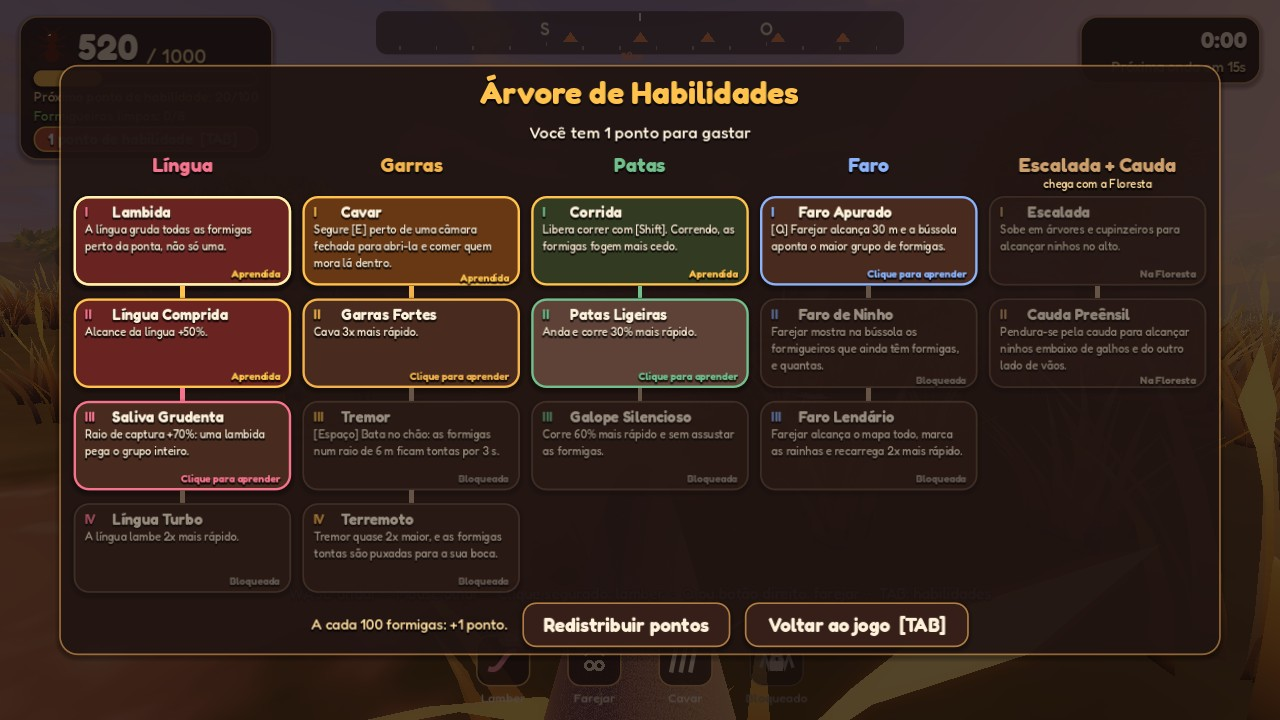
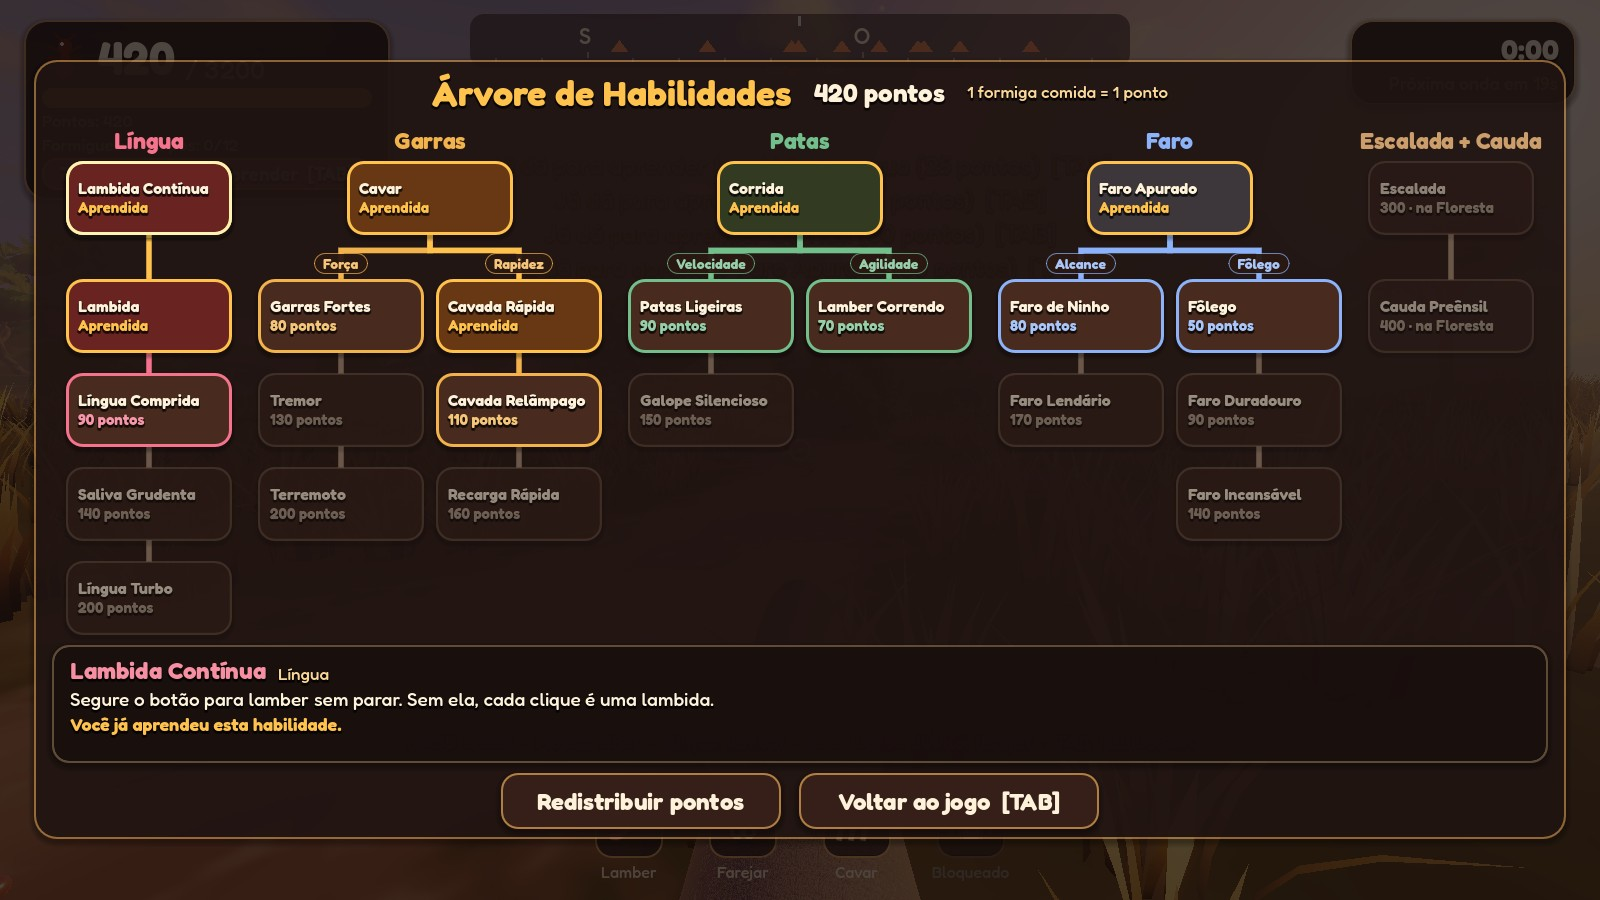
Document the playtest changes and refresh screenshots
DESIGN.md records the new decisions (eye height, walkable mounds, skill
prices and lines, running rules, 3200 ants on 12 mounds, display
options) in the current sections and in the decision history. The
README describes the new skills, controls and settings; the model docs
use the new mound count and size. Screenshots show the new HUD, a big
mound seen from the top and the new skill tree.

Claude-Session: https://claude.ai/code/session_01PK3zBhGKGNdhTPcPbN78xy

diff --git a/docs/DESIGN.md b/docs/DESIGN.md
@@ -7,7 +7,8 @@ Este documento junta, em um lugar só, tudo o que já foi definido sobre o jogo:
 - o **protótipo 2D do loop** (pasta [`prototipos/m1-loop/`](../prototipos/m1-loop/));
 - a **demo 3D** (o projeto principal deste repositório) e as escolhas feitas na
   conversa em que ela foi criada;
-- as **decisões de 02/11/2026**, tomadas para resolver o que não batia.
+- as **decisões de 02/11/2026**, tomadas para resolver o que não batia;
+- as **mudanças pedidas depois do primeiro teste** da demo (também de 02/11/2026).
 
 Quando algo aqui contradiz uma fonte antiga, **vale este documento**.
 
@@ -44,7 +45,7 @@ buscamos, no espírito delas:
 | **Documento de design** | As regras e ideias do jogo inteiro | Seção 6 deste documento | Consolidado aqui |
 | **Plano de produção** | Etapas de M1 a M5, riscos e cortes sugeridos | [`docs/PLANO.md`](PLANO.md) (resumo na seção 7) | Escrito |
 | **Protótipo M1 (2D)** | Testa só a sensação de comer: 1 ninho com 6 câmaras, 259 insetos e a rainha. Gráfico simples de propósito | Pasta [`prototipos/m1-loop/`](../prototipos/m1-loop/), um projeto Godot à parte (detalhes na seção 8) | Jogável |
-| **Demo 3D** | O Cerrado ao entardecer, em 1ª pessoa: 1000 formigas, 8 formigueiros com câmaras e rainhas, 5 habilidades e jogo salvo | Projeto principal, na raiz do repositório (detalhes na seção 8) | Jogável, já seguindo as decisões (seção 4) |
+| **Demo 3D** | O Cerrado ao entardecer, em 1ª pessoa: 3200 formigas, 12 formigueiros com câmaras e rainhas, 5 habilidades (22 níveis) e jogo salvo | Projeto principal, na raiz do repositório (detalhes na seção 8) | Jogável, já seguindo as decisões (seção 4) |
 
 ---
 
@@ -58,8 +59,12 @@ buscamos, no espírito delas:
 - **3D estilizado**, com cara de filme de animação. Nada de pixel art, nada de
   low poly.
 - **1ª pessoa:** você vê o mundo pelos olhos do tamanduá, com o focinho na parte
-  de baixo da tela. *Atenção (do plano): câmera livre deixa a criação das fases
-  mais cara do que câmera fixa.*
+  de baixo da tela. Os olhos ficam a **72 cm do chão**, e dá para **subir nos
+  formigueiros** para olhar dentro das câmaras. Correndo, a câmera balança de
+  leve (dá para desligar). *Atenção (do plano): câmera livre deixa a criação das
+  fases mais cara do que câmera fixa.*
+- **Tela:** janela, tela cheia ou tela cheia exclusiva, em várias resoluções, e
+  opções gráficas separadas (sombras, capim, suavização, efeitos de luz).
 - **Modelos 3D gerados por IA**, todos no mesmo estilo. Os prompts estão em
   [`prompts-ia.md`](prompts-ia.md). O formigueiro já foi gerado na Artlist e
   falta baixar (precisa de um plano com créditos).
@@ -70,13 +75,13 @@ buscamos, no espírito delas:
 - **Um mapa só, com várias regiões.** Você anda de uma região para a outra sem
   telas de carregamento. Por enquanto, só o Cerrado está pronto.
 - O cerrado é a savana brasileira (a "Savana" do documento original).
-- O Cerrado é uma **região completa de 45 a 60 minutos**, com **8 ninhos**.
+- O Cerrado é uma **região completa de 45 a 60 minutos**, com **12 ninhos**:
+  8 em volta do mapa e 4 no meio. Os formigueiros ficaram cerca de 45% maiores.
 - **Os ninhos do Cerrado são só formigueiros.** Os cupinzeiros aparecem apenas
   como cenário.
-- **1000 formigas por enquanto.** Na demo de hoje, elas acabam em 6 a 10
-  minutos. Para chegar aos 45 a 60 minutos, o tempo a mais deve vir de cavar e
-  esvaziar os ninhos, achar as últimas formigas com o Faro e explorar, e não de
-  colocar mais formigas. Se não bastar, o número muda nos testes.
+- **3200 formigas** (eram 1000). Somando o preço de todas as habilidades do
+  Cerrado dá **2180 pontos**: dá para aprender tudo e ainda sobram cerca de
+  **1000 formigas** (uns 4 formigueiros) para jogar com tudo liberado.
 - **Depois do Cerrado:** **outra floresta, com lagoas, cupinzeiros e mais**.
   As lagoas são só cenário por enquanto (nada de nadar). O Quintal urbano fica
   para mais tarde.
@@ -88,8 +93,9 @@ buscamos, no espírito delas:
 - **Ninhos com câmaras:** cada ninho tem câmaras internas. Você cava com as
   Garras e esvazia uma por uma, com a satisfação de terminar de arrumar uma
   prateleira.
-- A **língua** começa comendo um inseto por vez e evolui até a **lambida**, que
-  pega vários.
+- A **língua** começa com **um clique por lambida**, e cada lambida pega um
+  inseto. A primeira habilidade (**Lambida Contínua**, 25 pontos) deixa segurar
+  o botão; depois a **Lambida** pega vários de uma vez.
 - **O fim:** a região está limpa quando não sobra nenhum inseto, nem nas trilhas
   nem dentro dos ninhos.
 
@@ -105,17 +111,27 @@ buscamos, no espírito delas:
 
 ### Habilidades: as 5 do plano
 
-Cada habilidade tem **níveis**, comprados com **pontos** que você ganha comendo
-(na demo, 1 ponto a cada 100 formigas). Você escolhe onde gastar, e os gestos
-novos (lambida, cavar, escalar) também são comprados assim.
+**Cada formiga comida vale 1 ponto** (a rainha vale 20), e **cada habilidade tem
+o seu preço**. Você escolhe onde gastar, e os gestos novos (segurar para lamber,
+lambida, cavar, escalar) também são comprados assim. Dá para redistribuir os
+pontos de graça.
 
-| Habilidade | Para que serve | Ideias de níveis (vindas da demo e do documento) |
+**Garras**, **Patas** e **Faro** começam com uma habilidade e depois se dividem
+em **duas linhas que não se excluem** (dá para seguir as duas).
+
+| Habilidade | Linha | Níveis (preço em pontos) |
 |---|---|---|
-| **Língua** | Comer | Mais comprida, mais grudenta, **lambida**, lamber mais rápido, varrer o caminho todo |
-| **Garras** | Abrir ninhos e caminhos bloqueados | **Cavar ninhos**, cavar mais rápido, bater no chão para deixar os insetos tontos |
-| **Patas** | Andar | Andar mais rápido, **correr**, galopar sem assustar os insetos |
-| **Faro** | Achar insetos e ninhos | Nível 1: "sobrou algo perto"; nível 2: "está nesta área"; nível 3: "está exatamente aqui", e acha a rainha |
-| **Escalada + Cauda** | Alcançar o que está no alto | Subir em cupinzeiros altos e árvores; pendurar-se pela cauda para alcançar ninhos difíceis |
+| **Língua** | | Lambida Contínua (25: segurar para lamber) · Lambida (50: pega várias) · Língua Comprida (90) · Saliva Grudenta (140) · Língua Turbo (200) |
+| **Garras** | começo | Cavar (35: abre as câmaras) |
+| | Força | Garras Fortes (80: as moradoras ficam tontas ao abrir) · Tremor (130) · Terremoto (200) |
+| | Rapidez | Cavada Rápida (60: espera de 1,2 s vira 0,75 s) · Cavada Relâmpago (110: 0,35 s) · Recarga Rápida (160: Tremor recarrega 2x mais rápido) |
+| **Patas** | começo | Corrida (30: +25% de velocidade; correndo não dá para lamber) |
+| | Velocidade | Patas Ligeiras (90: mais 25%) · Galope Silencioso (150: correr não assusta) |
+| | Agilidade | Lamber Correndo (70) |
+| **Faro** | começo | Faro Apurado (30: alcance de 30 m e direção do maior grupo) |
+| | Alcance | Faro de Ninho (80: quanto falta em cada formigueiro) · Faro Lendário (170: mapa todo e as rainhas) |
+| | Fôlego | Fôlego (50: espera de 8 s vira 5 s) · Faro Duradouro (90: dura 7 s) · Faro Incansável (140: espera de 2 s) |
+| **Escalada + Cauda** | | Escalada (300) · Cauda Preênsil (400), só na floresta |
 
 **Habilidades por região:** a **Escalada + Cauda** aparece na árvore desde o
 começo, mas só pode ser comprada **quando você chegar à floresta**, onde ela é
@@ -130,31 +146,38 @@ usada.
 
 Feito, seguindo as decisões:
 
-1. **8 formigueiros**, 3 deles grandes. Cada um tem **câmaras fechadas**
+1. **12 formigueiros**, 5 deles grandes, com **46 câmaras fechadas** ao todo
    (montinhos de terra clara). Segurando **E** com a habilidade Cavar, a câmara
-   abre e as moradoras aparecem dentro do buraco.
-2. **Rainha** na câmara do topo dos 3 formigueiros grandes. Brilha de leve, fica
+   abre e as moradoras aparecem dentro do buraco. Até 40 ficam à vista; as
+   outras saem do túnel conforme você come.
+2. **Dá para subir nos formigueiros** e olhar dentro das câmaras lá de cima.
+3. **Rainha** na câmara do topo dos 5 formigueiros grandes. Brilha de leve, fica
    protegida enquanto houver formigas na câmara e **vale 20**.
-3. **As 1000 formigas** são divididas assim: cerca de 45% andam pelas trilhas
-   (e voltam para casa), o resto mora nas câmaras. 940 operárias + 3 rainhas × 20.
-4. **Soldados:** saíram. A **tanajura** continua.
-5. **As 5 habilidades**, compradas com pontos (1 a cada 100). No começo a língua
-   pega **uma formiga por vez**; a **Lambida** passa a pegar várias (o "gesto
-   novo" do documento). Correr também é uma habilidade (Patas). A **Escalada +
-   Cauda** aparece travada até a floresta. Dá para **redistribuir os pontos**.
-6. **Progresso visível:** contador de formigueiros limpos, avisos de câmara
-   limpa, e florzinhas brotam no formigueiro quando ele fica limpo. O Faro nível
-   2 mostra na bússola quanto falta em cada formigueiro; o nível 3 marca as
-   rainhas.
-7. **Jogo salvo:** salva sozinho a cada 30 s, ao pausar e ao sair. A tela
-   inicial ganha **Continuar** e **Novo jogo**.
+4. **As 3200 formigas** são divididas assim: cerca de 45% andam pelas trilhas
+   (e voltam para casa), o resto mora nas câmaras. 3100 operárias + 5 rainhas × 20.
+5. **Soldados:** saíram. A **tanajura** continua.
+6. **As 5 habilidades, com 22 níveis**, cada um com seu preço (seção 3). A
+   língua começa com um clique por lambida; correndo não dá para lamber até
+   aprender Lamber Correndo. A **Escalada + Cauda** aparece travada até a
+   floresta. Dá para **redistribuir os pontos**.
+7. **Progresso visível:** contador de formigueiros limpos, pontos e a próxima
+   habilidade no canto da tela, avisos de câmara limpa e de habilidade nova, e
+   florzinhas no formigueiro quando ele fica limpo. O Faro de Ninho mostra na
+   bússola quanto falta em cada formigueiro; o Faro Lendário marca as rainhas.
+8. **Jogo salvo:** salva sozinho a cada 30 s, ao pausar e ao sair. A tela
+   inicial ganha **Continuar** e **Novo jogo**. Jogos salvos da versão com 1000
+   formigas não são carregados (o mapa mudou).
+9. **Configurações** em abas (Tela, Gráficos, Jogo, Áudio): janela, tela cheia
+   ou tela cheia exclusiva, resolução, resolução do 3D, VSync, limite de FPS,
+   sombras, capim, suavização, efeitos de luz e balanço da câmera. **F11** ou
+   **Alt+Enter** alternam a tela cheia.
 
 Ainda a ajustar:
 
-- **Duração:** num teste automático (um robô que mira perfeito), as 1000
-  formigas acabaram em cerca de 6 minutos. Uma pessoa deve levar bem mais, mas
-  é provável que ainda fique abaixo dos 45 a 60 minutos. É o próximo ponto a
-  medir com jogadores.
+- **Duração:** num teste automático (um robô que mira perfeito), as 3200
+  formigas acabaram em cerca de **12 minutos** (antes, as 1000 levavam 6), e o
+  robô aprendeu todas as habilidades com cerca de 2200 formigas comidas. Uma
+  pessoa leva bem mais; é o próximo ponto a medir com jogadores.
 
 ---
 
@@ -271,13 +294,13 @@ Também recomendava lançar a página na Steam **antes** da segunda região.
 |---|---|---|
 | **M1: Sensação** | Protótipo do ato de comer | Você e mais 2 pessoas quiseram terminar o ninho |
 | **M2: Fatia vertical** | Um ninho no visual final, câmera de verdade, andar entre dois ninhos, um upgrade, salvar o jogo | Um vídeo de 15 s que dá vontade de jogar |
-| **M3: Uma região inteira** | Cerrado completo: 8 ninhos e árvore de habilidades | 45 a 60 min de jogo sem problemas de progressão |
+| **M3: Uma região inteira** | Cerrado completo: todos os ninhos da região e a árvore de habilidades | 45 a 60 min de jogo sem problemas de progressão |
 | **M4: Página na Steam + demo** | Medir interesse (lista de desejos) antes da próxima região | Página no ar com demo |
 | **M5: Próxima região + lançamento** | Polimento e lançamento | Jogo lançado |
 
 **Onde estamos:** a demo 3D já cobre a M2 (visual final, câmera de verdade,
-andar entre ninhos, habilidades e jogo salvo) e boa parte da M3 (o Cerrado com 8
-formigueiros e a árvore de habilidades). Falta acertar a duração com testes.
+andar entre ninhos, habilidades e jogo salvo) e boa parte da M3 (o Cerrado com
+12 formigueiros e a árvore de habilidades). Falta acertar a duração com testes.
 
 ---
 
@@ -299,14 +322,17 @@ formigueiros e a árvore de habilidades). Falta acertar a duração com testes.
 ### Demo 3D, projeto principal
 
 - **1ª pessoa** no cerrado ao entardecer; o sol vai se pondo enquanto você come.
-- **8 formigueiros** (3 com rainha) e **25 câmaras** para abrir e esvaziar.
+- **12 formigueiros** (5 com rainha) e **46 câmaras** para abrir e esvaziar;
+  dá para subir nos montes.
 - Formigas andando por **trilhas** até os arbustos, em **ondas** cada vez
   maiores. Correr assusta as formigas.
 - **Língua** que estica até onde você mira; **Faro** que mostra as formigas
   através do capim; **tremor** que deixa as formigas tontas.
 - **Tanajura** voadora que dá o Frenesi.
-- **5 habilidades** com pontos (1 a cada 100) e redistribuição grátis.
+- **5 habilidades com 22 níveis**: 1 formiga = 1 ponto, cada nível com seu
+  preço, e redistribuição grátis.
 - **Salva sozinho**; dá para continuar de onde parou.
+- **Tela cheia e várias resoluções**, com opções gráficas separadas.
 
 ---
 
@@ -332,3 +358,12 @@ formigueiros e a árvore de habilidades). Falta acertar a duração com testes.
 | 02/11/2026 | Escalada + Cauda | Sem uso no Cerrado (ninhos só no chão) | Só pode ser comprada ao chegar à floresta |
 | 02/11/2026 | Lagoas da floresta | Poderiam trazer a Natação | Só cenário por enquanto |
 | 02/11/2026 | Organização do repositório | Demo 3D num PR; protótipo e plano numa branch à parte | Tudo junto na `main`; as outras branches foram apagadas |
+| 02/11/2026 | Altura da visão | Olhos a 50 cm do chão | 72 cm, e dá para subir nos formigueiros |
+| 02/11/2026 | Lamber segurando | Liberado desde o começo | Habilidade inicial de 25 pontos (Lambida Contínua); antes dela, um clique por lambida |
+| 02/11/2026 | Preço das habilidades | 1 ponto a cada 100 formigas; tudo custava 1 ponto | 1 formiga = 1 ponto; cada habilidade tem seu preço (25 a 200; Escalada 300 e 400) |
+| 02/11/2026 | Garras e Faro | Uma linha de níveis cada | Duas linhas que não se excluem: Força e Rapidez (Garras), Alcance e Fôlego (Faro) |
+| 02/11/2026 | Correr | Corrida bem mais rápida; dava para lamber correndo | +25%, e mais 25% com Patas Ligeiras; lamber correndo virou habilidade |
+| 02/11/2026 | Quantidade de formigas | 1000 | 3200: dá para aprender tudo (2180 pontos) e ainda jogar com tudo liberado |
+| 02/11/2026 | Formigueiros | 8, menores | 12 (4 novos no meio do mapa), cerca de 45% maiores |
+| 02/11/2026 | Tela | Janela de 1600x900 e só "tela cheia: sim/não" | Janela, tela cheia ou exclusiva; várias resoluções; opções gráficas separadas |
+| 02/11/2026 | Câmera ao correr | Quase parada | Leve balanço de galope (dá para desligar) |

diff --git a/README.md b/README.md
@@ -15,7 +15,7 @@ produção, os protótipos e as decisões, num lugar só.
 
 | | |
 |---|---|
-| ![Lambendo formigas perto de um formigueiro](docs/screenshots/trilha.jpg) | ![Câmaras abertas, com a rainha brilhando no topo](docs/screenshots/formigueiro.jpg) |
+| ![Lambendo formigas na trilha](docs/screenshots/trilha.jpg) | ![Em cima de um formigueiro grande, com a câmara da rainha aberta](docs/screenshots/formigueiro.jpg) |
 | ![Árvore de habilidades da demo](docs/screenshots/arvore.jpg) | |
 
 > Capturas feitas em um servidor sem placa de vídeo (renderização por software).
@@ -25,11 +25,11 @@ produção, os protótipos e as decisões, num lugar só.
 
 ## A demo jogável
 
-O **Cerrado ao entardecer**: a colônia tem **1000 formigas** e **8
+O **Cerrado ao entardecer**: a colônia tem **3200 formigas** e **12
 formigueiros**. Parte das formigas anda pelas trilhas de terra e chega em
 **ondas**; o resto mora nas **câmaras** dos formigueiros, que você abre cavando.
-Os 3 formigueiros grandes guardam uma **rainha**. A cada **100 formigas** você
-ganha um ponto de habilidade, e o sol vai se pondo conforme você come.
+Os 5 formigueiros grandes guardam uma **rainha**. **Cada formiga comida vale 1
+ponto**, cada habilidade tem o seu preço, e o sol vai se pondo conforme você come.
 
 ### Como rodar
 
@@ -40,9 +40,10 @@ ganha um ponto de habilidade, e o sol vai se pondo conforme você come.
 3. Aperte **F5** (ou o botão ▶). Na primeira vez o Godot importa sons e
    texturas, o que leva alguns segundos.
 
-O projeto usa o renderizador **Forward+** (PC com placa de vídeo compatível com
-Vulkan, Direct3D 12 ou Metal). Em **Configurações** dá para baixar a qualidade
-gráfica se o PC sofrer.
+O jogo abre em **tela cheia**; **F11** (ou Alt+Enter) alterna com a janela. O
+projeto usa o renderizador **Forward+** (PC com placa de vídeo compatível com
+Vulkan, Direct3D 12 ou Metal). Em **Configurações** dá para trocar o modo de
+tela, a resolução e a qualidade gráfica.
 
 ### Controles
 
@@ -51,24 +52,28 @@ gráfica se o PC sofrer.
 | Andar | `W` `A` `S` `D` | analógico esquerdo |
 | Olhar | mouse | analógico direito |
 | Correr* | `Shift` | clicar o analógico esquerdo |
-| **Lamber** (segure) | clique esquerdo | `RT` |
+| **Lamber** | clique esquerdo (segure, com Lambida Contínua*) | `RT` |
 | Farejar | `Q` ou clique direito | `LT` |
 | Abrir câmara* | segure `E` perto dela | `X` |
 | Tremor* | `Espaço` | `A` |
 | Árvore de habilidades | `Tab` | `Back` |
 | Pausa | `Esc` | `Start` |
+| Tela cheia | `F11` ou `Alt+Enter` | |
 
 \* liberados pela árvore de habilidades.
 
 ### O que tem na demo hoje
 
 - **Câmaras:** os montinhos de terra clara nos formigueiros são câmaras
-  fechadas. Com **Cavar** (Garras), segure `E` perto de uma para abri-la.
+  fechadas. Com **Cavar** (Garras), segure `E` perto de uma para abri-la. Até 40
+  moradoras ficam à vista; as outras saem do túnel conforme você come.
+- **Suba nos formigueiros:** lá de cima dá para ver dentro das câmaras abertas.
 - **Rainha:** fica na câmara do topo dos formigueiros grandes, protegida pelas
   outras formigas. Coma todas em volta e ela vale **20**.
 - **Trilhas e ondas:** quem volta para o formigueiro sai de novo mais tarde; só
   as que você come somem de vez.
 - **Formigas fogem** quando você chega correndo: chegue andando e lamba de longe.
+  Correndo também não dá para lamber, até aprender **Lamber Correndo**.
 - **Faro:** mostra as formigas através do capim; nos níveis mais altos, a
   bússola mostra quanto falta em cada formigueiro e onde estão as rainhas.
 - **Tanajuras** (douradas, voando) ativam o **Frenesi**: língua mais rápida e
@@ -80,26 +85,37 @@ gráfica se o PC sofrer.
 
 ### Habilidades
 
-| Habilidade | Níveis |
+| Habilidade | Níveis (preço em pontos) |
 |---|---|
-| **Língua** | Lambida (pega várias de uma vez) · Língua Comprida · Saliva Grudenta · Língua Turbo |
-| **Garras** | Cavar · Garras Fortes · Tremor · Terremoto |
-| **Patas** | Corrida · Patas Ligeiras · Galope Silencioso |
-| **Faro** | Faro Apurado · Faro de Ninho · Faro Lendário |
-| **Escalada + Cauda** | Escalada · Cauda Preênsil (só ao chegar à floresta) |
+| **Língua** | Lambida Contínua (25: segurar para lamber) · Lambida (50: pega várias) · Língua Comprida (90) · Saliva Grudenta (140) · Língua Turbo (200) |
+| **Garras** | Cavar (35), e depois duas linhas: **Força** · Garras Fortes (80) · Tremor (130) · Terremoto (200); **Rapidez** · Cavada Rápida (60) · Cavada Relâmpago (110) · Recarga Rápida (160) |
+| **Patas** | Corrida (30: +25%), e depois: **Velocidade** · Patas Ligeiras (90: mais 25%) · Galope Silencioso (150); **Agilidade** · Lamber Correndo (70) |
+| **Faro** | Faro Apurado (30), e depois: **Alcance** · Faro de Ninho (80) · Faro Lendário (170); **Fôlego** · Fôlego (50) · Faro Duradouro (90) · Faro Incansável (140) |
+| **Escalada + Cauda** | Escalada (300) · Cauda Preênsil (400), só ao chegar à floresta |
 
-1 ponto a cada 100 formigas; dá para redistribuir os pontos de graça na árvore.
+1 formiga comida = 1 ponto (a rainha vale 20). As duas linhas de um ramo não se
+excluem. Tudo o que dá para aprender no Cerrado soma 2180 pontos, e dá para
+redistribuir os pontos de graça na árvore.
 
-### Qualidade gráfica
+### Tela e gráficos
+
+Em **Configurações**:
+
+- **Tela:** janela, tela cheia ou tela cheia exclusiva; resolução (em tela
+  cheia, ela muda só o 3D e a interface continua nítida); resolução do 3D (50 a
+  100%); VSync; limite de FPS.
+- **Gráficos:** um preset ajusta tudo de uma vez, ou ajuste item por item:
+  sombras, capim, suavização (FXAA, MSAA ou TAA), sombra de contato (SSAO), luz
+  rebatida (SSIL), neblina volumétrica e brilho do sol.
+- **Jogo:** sensibilidade do mouse, inverter eixo Y, campo de visão e balanço
+  da câmera.
 
 | Preset | O que muda |
 |---|---|
-| Baixa | menos capim, sombras curtas, sem SSAO, resolução 3D a 80% |
+| Baixa | menos capim, sombras curtas, sem SSAO, FXAA, resolução 3D a 80% |
 | Média | SSAO, sombras médias, MSAA 2x (padrão com vídeo integrado) |
 | Alta | capim denso, sombras longas (padrão com placa de vídeo dedicada) |
 | Ultra | ainda mais capim, neblina volumétrica, SSIL, MSAA 4x |
-
-A densidade do capim muda ao recomeçar a fase.
 
 ---
 
@@ -158,9 +174,11 @@ Opções de teste (depois de `--` na linha de comando do Godot):
 godot --path . -- --start=play --autoplay --timescale=4 --stats
 ```
 
-`--start=play|tree` pula o menu · `--autoplay` um bot joga sozinho ·
-`--give=N` começa com N formigas · `--buy=lingua_1,garras_1` compra habilidades ·
-`--captures=SEG:arquivo.png` tira capturas · `--quit` fecha depois.
+`--start=play|tree|settings` pula o menu · `--autoplay` um bot joga sozinho ·
+`--give=N` começa com N formigas · `--buy=lingua_segurar,garras_cavar` aprende
+habilidades · `--open=N|all` abre as câmaras · `--captures=SEG:arquivo.png` tira
+capturas (numa janela de 1600x900) · `--quit` fecha depois · `--stats` mostra
+FPS, formigas vivas e o tempo gasto por quadro.
 
 ## Créditos
 

diff --git a/docs/prompts-ia.md b/docs/prompts-ia.md
@@ -68,9 +68,9 @@ Também dá para ir direto de texto para 3D (*text-to-3D*) com os mesmos prompts
 
 | Arquivo | O que é | Onde aparece | Prioridade |
 |---|---|---|---|
-| `formigueiro.glb` | Monte de terra das saúvas | 5 formigueiros do mapa | **já gerado** |
+| `formigueiro.glb` | Monte de terra das saúvas | 12 formigueiros do mapa | **já gerado** |
 | `formiga_operaria.glb` | Saúva operária | centenas na tela | alta |
-| `formiga_rainha.glb` | Rainha do formigueiro | 3 formigueiros grandes | alta |
+| `formiga_rainha.glb` | Rainha do formigueiro | 5 formigueiros grandes | alta |
 | `formiga_tanajura.glb` | Tanajura (rainha alada) | raras, ativam o Frenesi | média |
 | `tamandua_focinho.glb` | Focinho visto pelos olhos | 1ª pessoa, o tempo todo | alta |
 | `tamandua.glb` | Tamanduá-bandeira inteiro | menu inicial | média |
@@ -106,7 +106,9 @@ subtle hand-painted texture detail, clean readable silhouette. Single game-ready
 prop, centered, isolated, no background.
 ```
 
-No jogo: de 3,4 a 5 m de largura e de 0,55 a 0,8 m de altura (escala automática).
+No jogo: de 5 a 7,6 m de largura e de 0,75 a 1,1 m de altura (escala automática).
+O tamanduá sobe no monte; o chão segue a forma de domo do jogo, então evite
+modelos com paredes muito íngremes ou buracos fundos.
 As câmaras (tampas de terra clara e os buracos) são colocadas pelo jogo por cima
 do modelo, então ele não precisa ter buracos específicos.
 

diff --git a/assets/models/LEIA-ME.md b/assets/models/LEIA-ME.md
@@ -6,7 +6,7 @@ importa cada arquivo e o jogo passa a usá-lo no lugar da versão feita por cód
 
 | Arquivo | Substitui | Tamanho no jogo |
 |---|---|---|
-| `formigueiro.glb` | monte de terra dos formigueiros (as câmaras são colocadas por cima) | 3,4 a 5 m de largura |
+| `formigueiro.glb` | monte de terra dos formigueiros (as câmaras são colocadas por cima) | 5 a 7,6 m de largura |
 | `formiga_operaria.glb` | saúva operária | 15 cm de comprimento |
 | `formiga_rainha.glb` | rainha dos formigueiros grandes | 44 cm |
 | `formiga_tanajura.glb` | tanajura | 22 cm |
